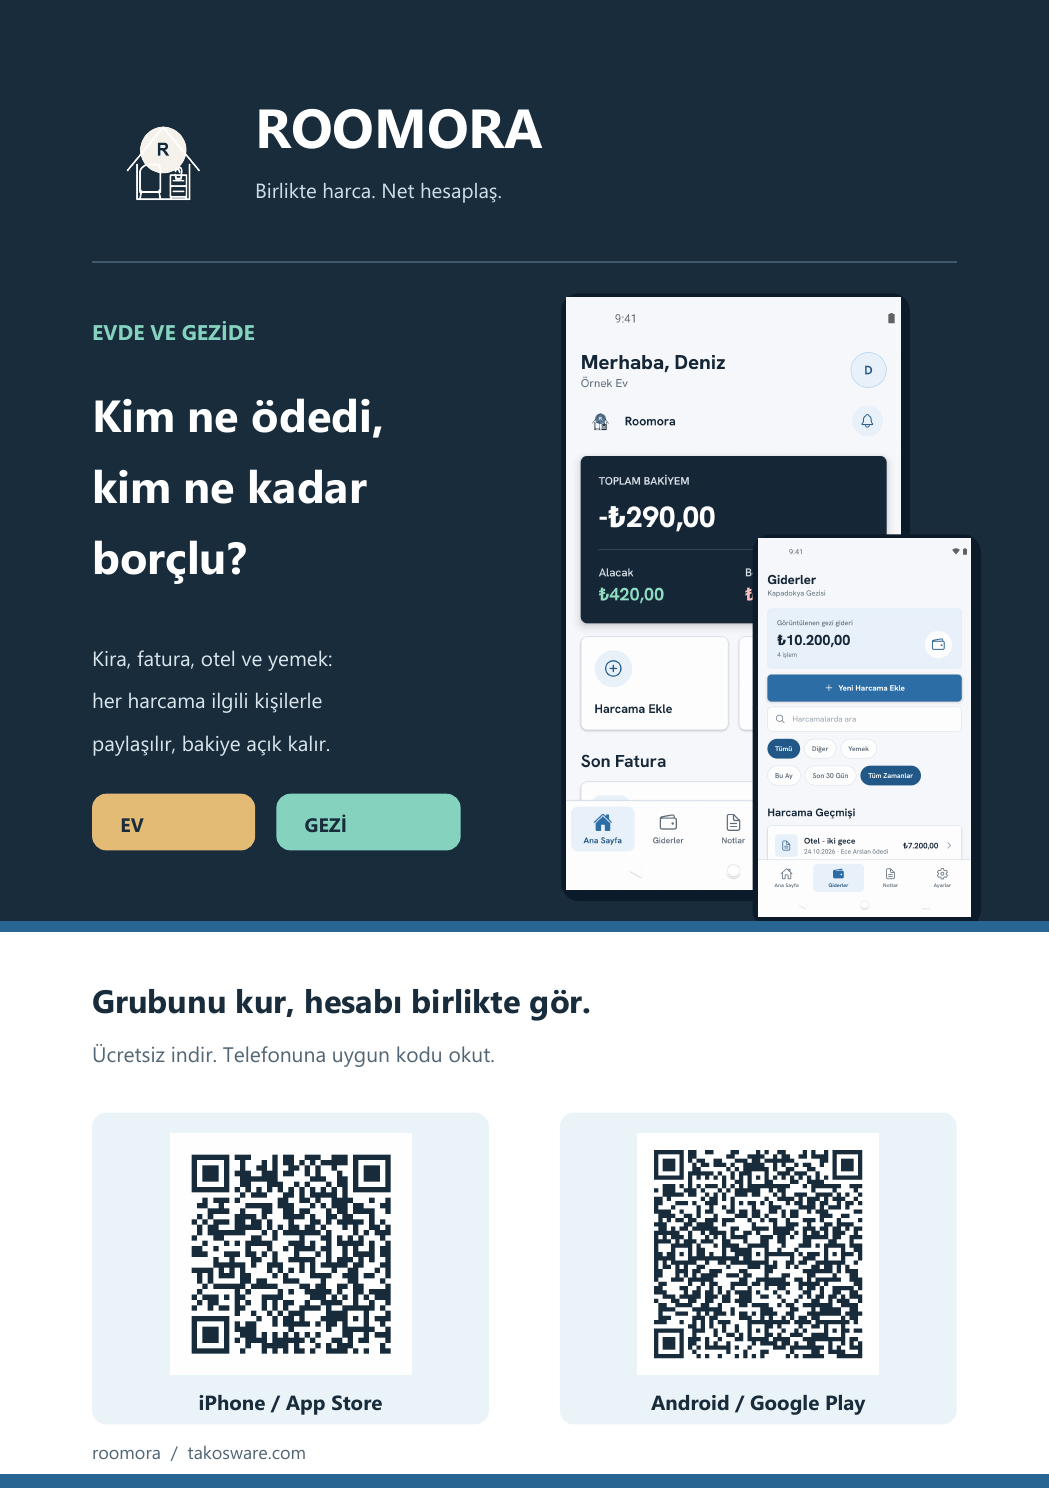
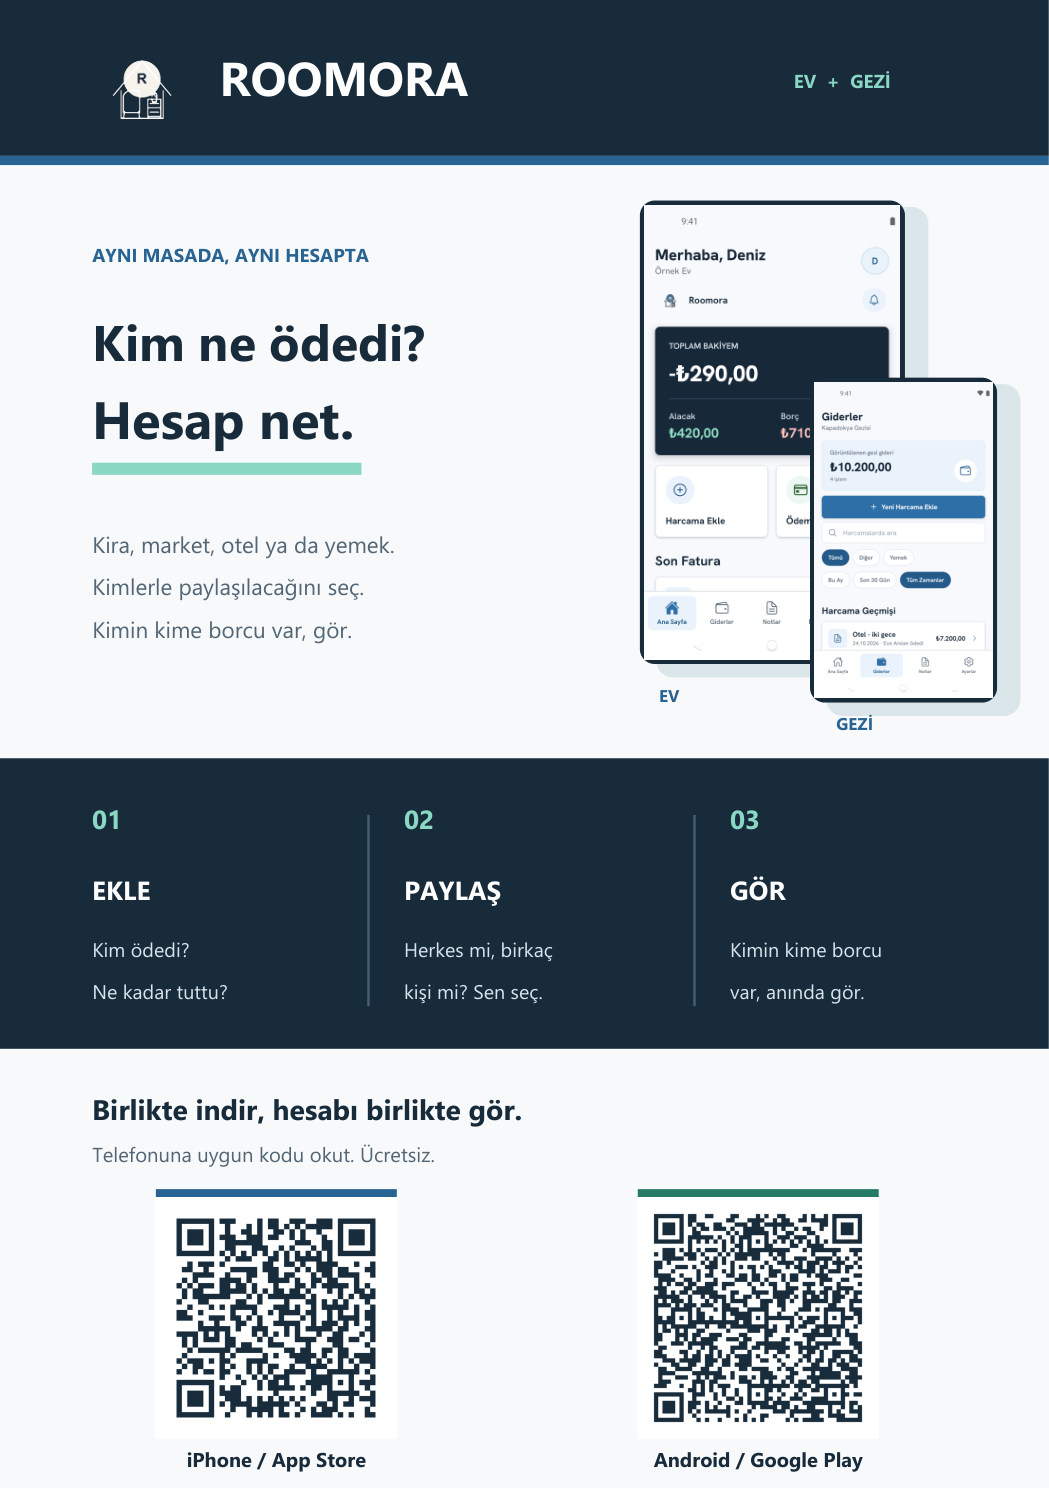
design: refresh Roomora A5 brochure

diff --git a/scripts/make-brochure.py b/scripts/make-brochure.py
@@ -23,10 +23,9 @@ MM = 72 / 25.4
 W, H = 148 * MM, 210 * MM
 NAVY = colors.HexColor("#182C3C")
 BLUE = colors.HexColor("#286593")
-PALE = colors.HexColor("#EAF3F8")
+PAPER = colors.HexColor("#F8FAFB")
 MUTED = colors.HexColor("#526675")
-GREEN = colors.HexColor("#85D3BF")
-GOLD = colors.HexColor("#E3BB75")
+GREEN = colors.HexColor("#8BD9C5")
 WHITE = colors.white
 
 
@@ -47,10 +46,12 @@ def label(c, x, y, value, size=10, color=NAVY, font="Segoe"):
 
 def phone(c, image_path, x, top, width):
     height = width * 16 / 9
-    c.setFillColor(colors.HexColor("#0B1B29"))
-    c.roundRect((x - 0.8) * MM, (H / MM - top - height - 1.6) * MM,
-                (width + 2.2) * MM, (height + 2.2) * MM, 2.5 * MM,
-                fill=1, stroke=0)
+    c.setFillColor(colors.HexColor("#DCE6EC"))
+    c.roundRect((x + 1.6) * MM, (H / MM - top - height - 2.6) * MM,
+                (width + 2.4) * MM, (height + 2.4) * MM, 2.4 * MM, fill=1, stroke=0)
+    c.setFillColor(NAVY)
+    c.roundRect((x - 0.7) * MM, (H / MM - top - height - 0.7) * MM,
+                (width + 1.4) * MM, (height + 1.4) * MM, 2.1 * MM, fill=1, stroke=0)
     c.drawImage(ImageReader(str(image_path)), x * MM,
                 (H / MM - top - height) * MM, width * MM, height * MM,
                 mask="auto")
@@ -59,55 +60,64 @@ def phone(c, image_path, x, top, width):
 ios = qr(IOS_URL, "roomora-ios-qr.png")
 android = qr(ANDROID_URL, "roomora-android-qr.png")
 c = canvas.Canvas(str(PDF), pagesize=(W, H), pageCompression=1)
-c.setTitle("Roomora | Ortak harcamalar, net hesaplar")
+c.setTitle("Roomora | Evde de gezide de hesap ortada")
 c.setAuthor("Roomora")
-c.setFillColor(WHITE)
+c.setFillColor(PAPER)
 c.rect(0, 0, W, H, fill=1, stroke=0)
 c.setFillColor(NAVY)
-c.rect(0, H - 130 * MM, W, 130 * MM, fill=1, stroke=0)
+c.rect(0, H - 22 * MM, W, 22 * MM, fill=1, stroke=0)
 c.drawImage(ImageReader(str(ROOT / "src" / "assets" / "mark-white.png")),
-            13 * MM, H - 31 * MM, 20 * MM, 20 * MM,
+            12 * MM, H - 19 * MM, 16 * MM, 16 * MM,
             mask="auto", preserveAspectRatio=True)
-label(c, 36, 21, "ROOMORA", 22, WHITE, "SegoeBold")
-label(c, 36, 28, "Birlikte harca. Net hesaplaş.", 8.2, colors.HexColor("#CFDDE6"))
-c.setStrokeColor(colors.HexColor("#40596C"))
-c.line(13 * MM, H - 37 * MM, 135 * MM, H - 37 * MM)
+label(c, 31, 13.5, "ROOMORA", 19, WHITE, "SegoeBold")
+label(c, 112, 12.4, "EV  +  GEZİ", 7.5, GREEN, "SegoeBold")
+c.setFillColor(BLUE)
+c.rect(0, H - 23.3 * MM, W, 1.3 * MM, fill=1, stroke=0)
 
-label(c, 13, 48, "EVDE VE GEZİDE", 8.5, GREEN, "SegoeBold")
-label(c, 13, 61, "Kim ne ödedi,", 18, WHITE, "SegoeBold")
-label(c, 13, 71, "kim ne kadar", 18, WHITE, "SegoeBold")
-label(c, 13, 81, "borçlu?", 18, WHITE, "SegoeBold")
-label(c, 13, 94, "Kira, fatura, otel ve yemek:", 8.3, colors.HexColor("#D9E5EB"))
-label(c, 13, 100, "her harcama ilgili kişilerle", 8.3, colors.HexColor("#D9E5EB"))
-label(c, 13, 106, "paylaşılır, bakiye açık kalır.", 8.3, colors.HexColor("#D9E5EB"))
-
-c.setFillColor(GOLD)
-c.roundRect(13 * MM, H - 120 * MM, 23 * MM, 8 * MM, 2 * MM, fill=1, stroke=0)
-label(c, 17, 117.5, "EV", 7.8, NAVY, "SegoeBold")
+label(c, 13, 37, "AYNI MASADA, AYNI HESAPTA", 7.5, BLUE, "SegoeBold")
+label(c, 13, 51, "Kim ne ödedi?", 20, NAVY, "SegoeBold")
+label(c, 13, 62, "Hesap net.", 21, NAVY, "SegoeBold")
 c.setFillColor(GREEN)
-c.roundRect(39 * MM, H - 120 * MM, 26 * MM, 8 * MM, 2 * MM, fill=1, stroke=0)
-label(c, 43, 117.5, "GEZİ", 7.8, NAVY, "SegoeBold")
+c.rect(13 * MM, H - 67 * MM, 38 * MM, 1.7 * MM, fill=1, stroke=0)
+label(c, 13, 78, "Kira, market, otel ya da yemek.", 9, MUTED)
+label(c, 13, 84, "Kimlerle paylaşılacağını seç.", 9, MUTED)
+label(c, 13, 90, "Kimin kime borcu var, gör.", 9, MUTED)
 
-phone(c, ROOT / "media" / "store-native" / "android" / "home-tr-01-home.png", 80, 42, 47)
-phone(c, ROOT / "media" / "store-native" / "android" / "trip-tr-03-expenses.png", 107, 76, 30)
+phone(c, ROOT / "media" / "store-native" / "android" / "home-tr-01-home.png", 91, 29, 36)
+phone(c, ROOT / "media" / "store-native" / "android" / "trip-tr-03-expenses.png", 115, 54, 25)
+label(c, 93, 99, "EV", 6.8, BLUE, "SegoeBold")
+label(c, 118, 103, "GEZİ", 6.8, BLUE, "SegoeBold")
 
-c.setFillColor(BLUE)
-c.rect(0, H - 131.5 * MM, W, 1.5 * MM, fill=1, stroke=0)
-label(c, 13, 143, "Grubunu kur, hesabı birlikte gör.", 13, NAVY, "SegoeBold")
-label(c, 13, 150, "Ücretsiz indir. Telefonuna uygun kodu okut.", 8.4, MUTED)
+c.setFillColor(NAVY)
+c.rect(0, H - 148 * MM, W, 41 * MM, fill=1, stroke=0)
+steps = [
+    (13, "01", "EKLE", "Kim ödedi?", "Ne kadar tuttu?"),
+    (57, "02", "PAYLAŞ", "Herkes mi, birkaç", "kişi mi? Sen seç."),
+    (103, "03", "GÖR", "Kimin kime borcu", "var, anında gör."),
+]
+for x, number, title, first, second in steps:
+    label(c, x, 117, number, 10.5, GREEN, "SegoeBold")
+    label(c, x, 127, title, 10.5, WHITE, "SegoeBold")
+    label(c, x, 135, first, 7.9, colors.HexColor("#D9E5EB"))
+    label(c, x, 141, second, 7.9, colors.HexColor("#D9E5EB"))
+c.setStrokeColor(colors.HexColor("#456071"))
+c.line(52 * MM, H - 115 * MM, 52 * MM, H - 142 * MM)
+c.line(98 * MM, H - 115 * MM, 98 * MM, H - 142 * MM)
 
-for x, image, title, url in ((13, ios, "iPhone / App Store", IOS_URL),
-                             (79, android, "Android / Google Play", ANDROID_URL)):
-    c.setFillColor(PALE)
-    c.roundRect(x * MM, H - 201 * MM, 56 * MM, 44 * MM, 2 * MM, fill=1, stroke=0)
-    c.drawImage(image, (x + 11) * MM, H - 194 * MM, 34 * MM, 34 * MM, mask="auto")
+label(c, 13, 158, "Birlikte indir, hesabı birlikte gör.", 11.3, NAVY, "SegoeBold")
+label(c, 13, 164, "Telefonuna uygun kodu okut. Ücretsiz.", 8.1, MUTED)
+
+for x, image, title, url, color in (
+    (22, ios, "iPhone / App Store", IOS_URL, BLUE),
+    (90, android, "Android / Google Play", ANDROID_URL, colors.HexColor("#267B68")),
+):
+    c.setFillColor(color)
+    c.rect(x * MM, H - 169 * MM, 34 * MM, 1.2 * MM, fill=1, stroke=0)
+    c.drawImage(image, x * MM, H - 203 * MM, 34 * MM, 34 * MM, mask="auto")
     c.setFillColor(NAVY)
-    c.setFont("SegoeBold", 8.2)
-    c.drawCentredString((x + 28) * MM, H - 199 * MM, title)
-    c.linkURL(url, (x * MM, H - 201 * MM, (x + 56) * MM, H - 157 * MM), relative=0)
+    c.setFont("SegoeBold", 8)
+    c.drawCentredString((x + 17) * MM, H - 207 * MM, title)
+    c.linkURL(url, (x * MM, H - 208 * MM, (x + 34) * MM, H - 169 * MM), relative=0)
 
-label(c, 13, 206, "roomora  /  takosware.com", 7.2, MUTED)
-c.setFillColor(BLUE)
-c.rect(0, 0, W, 2 * MM, fill=1, stroke=0)
 c.save()
 print(PDF)
